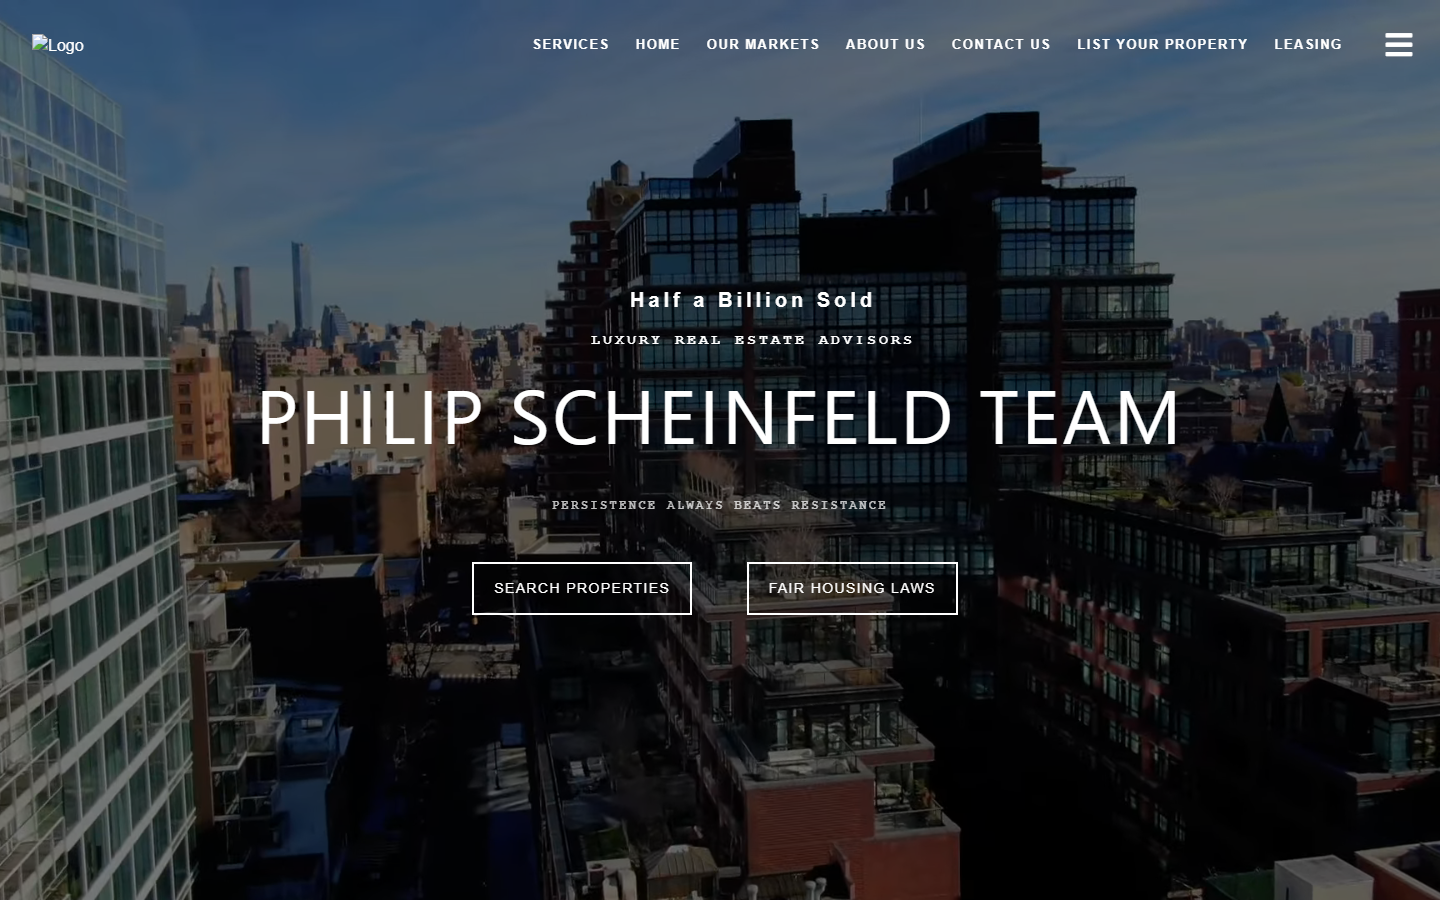
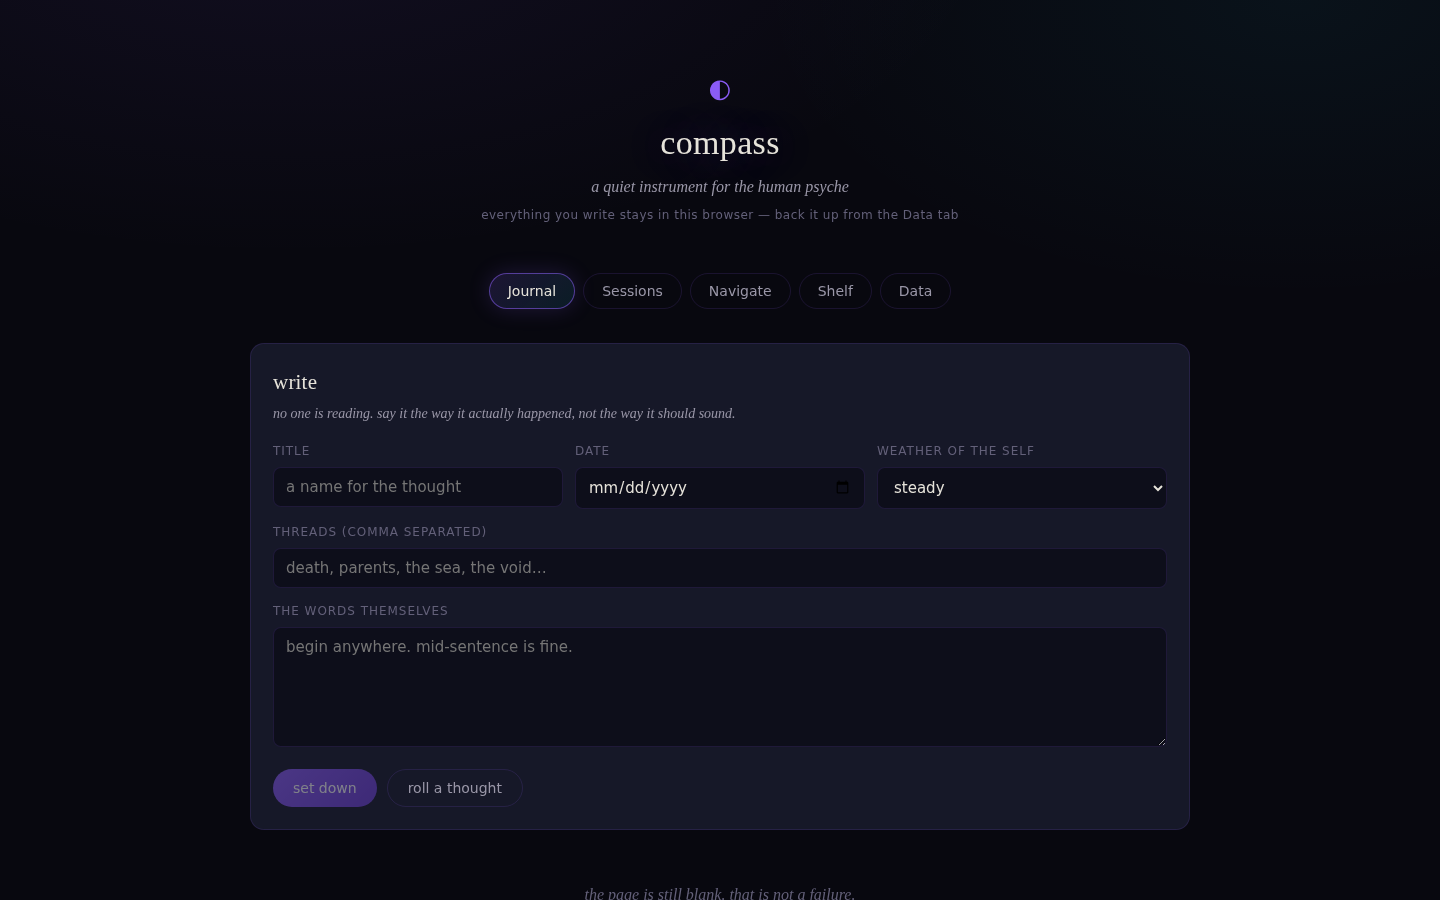
add services page + OG card, fix card titles, real screenshots
- /services pricing page + nav link
- OG share image (1200x630) + twitter/linkedin tags
- Project card titles use theme ink (were inherit-black on button)
- Replace wrong Compass screenshot with real Vite/React app capture
- NightAnvil screenshots (landing, dashboard, gig form), bb-suite dry-run
  output, and Obsidian dashboard capture
- Community pitch snippets (docs/pitching.md)

diff --git a/src/routes/services/+page.svelte b/src/routes/services/+page.svelte
@@ -1,0 +1,272 @@
+<script lang="ts">
+	import { profile } from '$lib/data/profile';
+
+	const packages = [
+		{
+			code: 'LAUNCH',
+			name: 'Launch',
+			price: '$1,200',
+			timing: '1–2 weeks',
+			best: 'Local businesses, clinics, photographers, startups needing a credible web presence.',
+			features: [
+				'Up to 5 custom pages, mobile-first, camera-ready',
+				'Booking / contact + email integration',
+				'SEO foundations: meta, OG/social share cards, sitemap',
+				'Analytics, security headers, favicon & branding',
+				'One design revision round, 30 days of post-launch fixes'
+			]
+		},
+		{
+			code: 'BUILD',
+			name: 'Build',
+			price: '$2,800',
+			timing: '3–5 weeks',
+			featured: true,
+			best: 'E-commerce, SaaS MVPs, client portals, dashboards — custom web products that make money.',
+			features: [
+				'Custom web app: Next.js / SvelteKit / React + TypeScript',
+				'Auth, admin panel, and payments (Stripe)',
+				'Database, deployment pipeline (CI/CD), custom domain',
+				'Booking, catalog, or service flows wired end-to-end',
+				'Two revision rounds, 60 days of post-launch support'
+			]
+		},
+		{
+			code: 'SCALE',
+			name: 'Scale',
+			price: '$5,000+',
+			timing: 'Ongoing / staggered',
+			best: 'Platforms, multi-tenant products, AI/automation systems, and businesses that need an engineering partner.',
+			features: [
+				'Multi-tenant / white-label platforms (sellable products)',
+				'AI agents, workflow automation, integration layers',
+				'Security review + hardening (offensive-security background)',
+				'Retainer: ongoing features, monitoring, infrastructure',
+				'Direct line to an engineer — no account-manager middlemen'
+			]
+		}
+	];
+
+	const addons = [
+		{ item: 'Web scraping / data pipelines', price: '$45/hr' },
+		{ item: 'Automation / scripting / Zapier-style glue', price: '$45/hr' },
+		{ item: 'Firewall & infrastructure hardening', price: '$350 / site' },
+		{ item: 'SEO / analytics / schema configuration', price: '$150' },
+		{ item: 'Redesign / rebrand (existing site)', price: 'Quote' }
+	];
+</script>
+
+<svelte:head>
+	<title>Services &amp; Pricing — pwn4g3</title>
+	<meta name="description" content="Web development, e-commerce, automation, and security engineering for St. Louis businesses — fixed-price packages from $1,200." />
+</svelte:head>
+
+<section class="services-hero">
+	<p class="eyebrow"><i aria-hidden="true"></i> Services &amp; Pricing</p>
+	<h1>What I <em>build</em></h1>
+	<p class="lede">
+		Fixed-price packages. No account managers, no mystery invoices — you work directly with the engineer
+		who ships the work. St. Louis, MO · remote-friendly.
+	</p>
+</section>
+
+<section class="section packages">
+	<div class="package-grid">
+		{#each packages as pkg}
+			<div class="pkg reveal" class:featured={pkg.featured}>
+				<span class="pkg-code">{pkg.code}</span>
+				<h2>{pkg.name}</h2>
+				<div class="pkg-price">
+					<strong>{pkg.price}</strong>
+					<span>{pkg.timing}</span>
+				</div>
+				{#if pkg.featured}<span class="pkg-badge">Most purchased</span>{/if}
+				<p class="pkg-best">{pkg.best}</p>
+				<ul>
+					{#each pkg.features as f}
+						<li>→ {f}</li>
+					{/each}
+				</ul>
+				<a class="button primary" class:ghost={pkg.featured} href="/#booking">
+					Book {pkg.name.toLowerCase()} <span>→</span>
+				</a>
+			</div>
+		{/each}
+	</div>
+</section>
+
+<section class="section addons">
+	<div class="section-heading">
+		<span class="section-kicker">ADD-ONS</span>
+		<h2>Ala carte <em>work</em></h2>
+	</div>
+	<div class="addon-list reveal">
+		{#each addons as a}
+			<div class="addon-row">
+				<span>{a.item}</span>
+				<div class="addon-rule" aria-hidden="true"></div>
+				<strong>{a.price}</strong>
+			</div>
+		{/each}
+	</div>
+</section>
+
+<section class="section process">
+	<div class="section-heading">
+		<span class="section-kicker">PROCESS</span>
+		<h2>How it <em>works</em></h2>
+	</div>
+	<div class="process-grid">
+		<div class="step reveal"><b>01</b><h3>Scope</h3><p>Free 20-minute call. I map what you need to this page's packages or quote custom work.</p></div>
+		<div class="step reveal"><b>02</b><h3>Contract</h3><p>50% deposit, fixed price, written timeline. What we agree on is what you pay — no creep.</p></div>
+		<div class="step reveal"><b>03</b><h3>Build</h3><p>You get a live preview link as I build. Checkpoint reviews, weekly progress, no black box.</p></div>
+		<div class="step reveal"><b>04</b><h3>Ship</h3><p>You approve, I deploy to your domain, hand over the code and credentials, and stay on for post-launch fixes.</p></div>
+	</div>
+</section>
+
+<section class="section faq">
+	<div class="section-heading">
+		<span class="section-kicker">FAQ</span>
+		<h2>Straight <em>answers</em></h2>
+	</div>
+	<div class="faq-list reveal">
+		<p><b>Do you need a local business?</b> No — I work remote, but local St. Louis clients get priority scheduling and optional in-person walkthroughs.</p>
+		<p><b>Who owns the code?</b> You do — fully transferred on final payment. You're never locked into me.</p>
+		<p><b>What stack do you use?</b> Next.js, SvelteKit, React, TypeScript, Node, Python, Postgres, Redis, Cloudflare/Vercel. Or whatever fits the project best.</p>
+		<p><b>Can you fix my existing site instead of rebuilding?</b> Usually yes — performance, SEO, security, and redesign are all ala carte items.</p>
+	</div>
+</section>
+
+<section class="cta">
+	<p class="eyebrow"><i aria-hidden="true"></i> Let's talk</p>
+	<h2>Have a project in <em>mind?</em></h2>
+	<p>Tell me what you're building — I'll reply within a day with an estimate.</p>
+	<a class="button primary" href="/#booking">Book a project <span>→</span></a>
+	<a class="button ghost" href="mailto:{profile.email}">or email directly <span>↗</span></a>
+</section>
+
+<style>
+	.services-hero {
+		padding: 9rem 5vw 4rem;
+		max-width: 1180px;
+		margin: 0 auto;
+	}
+	.services-hero h1 {
+		font-family: var(--font-heading, 'Cormorant Garamond'), serif;
+		font-size: clamp(3rem, 7vw, 5rem);
+		font-weight: 500;
+		line-height: 0.95;
+		margin: 1rem 0 1.5rem;
+	}
+	.services-hero em { color: var(--accent, #a51d37); font-style: italic; }
+	.services-hero .lede {
+		color: var(--muted, #898681);
+		font-size: 1.05rem;
+		line-height: 1.7;
+		max-width: 34em;
+	}
+
+	.package-grid {
+		display: grid;
+		grid-template-columns: repeat(auto-fit, minmax(280px, 1fr));
+		gap: 1.5rem;
+	}
+	.pkg {
+		background: var(--surface, #080a0d);
+		border: 1px solid rgba(236, 231, 224, 0.08);
+		border-radius: 12px;
+		padding: 2rem 1.75rem;
+		display: flex;
+		flex-direction: column;
+		gap: 1rem;
+		position: relative;
+		transition: border-color 0.2s, transform 0.2s;
+	}
+	.pkg:hover { border-color: rgba(165, 29, 55, 0.5); transform: translateY(-2px); }
+	.pkg.featured {
+		border-color: var(--accent, #a51d37);
+		background: linear-gradient(160deg, rgba(165, 29, 55, 0.08), var(--surface, #080a0d) 45%);
+	}
+	.pkg-code {
+		font: 0.7rem var(--font-mono, monospace);
+		color: var(--accent-bright, #e33d5c);
+		letter-spacing: 0.15em;
+	}
+	.pkg h2 {
+		font-family: var(--font-heading, 'Cormorant Garamond'), serif;
+		font-size: 2rem;
+		font-weight: 500;
+		margin: 0;
+	}
+	.pkg-price { display: flex; align-items: baseline; gap: 0.75rem; }
+	.pkg-price strong { font-size: 1.6rem; font-weight: 600; }
+	.pkg-price span { font: 0.7rem var(--font-mono, monospace); color: var(--muted, #898681); }
+	.pkg-badge {
+		position: absolute; top: 1rem; right: 1rem;
+		font: 0.6rem var(--font-mono, monospace);
+		letter-spacing: 0.1em;
+		color: var(--ink, #ece7e0);
+		background: var(--accent, #a51d37);
+		padding: 0.3rem 0.6rem;
+		border-radius: 999px;
+	}
+	.pkg-best { color: var(--muted, #898681); font-size: 0.85rem; line-height: 1.6; }
+	.pkg ul { list-style: none; margin: 0; padding: 0; display: flex; flex-direction: column; gap: 0.55rem; }
+	.pkg li { color: var(--ink, #ece7e0); font-size: 0.85rem; line-height: 1.5; }
+	.pkg .button { margin-top: auto; text-align: center; }
+
+	.addon-list {
+		border: 1px solid rgba(236, 231, 224, 0.08);
+		border-radius: 12px;
+		background: var(--surface, #080a0d);
+		padding: 0.5rem 1.75rem;
+	}
+	.addon-row {
+		display: flex;
+		align-items: baseline;
+		gap: 1rem;
+		padding: 0.9rem 0;
+	}
+	.addon-row span { color: var(--ink, #ece7e0); font-size: 0.95rem; }
+	.addon-row strong { font-family: var(--font-mono, monospace); font-size: 0.85rem; color: var(--accent-bright, #e33d5c); white-space: nowrap; }
+	.addon-rule { flex: 1; border-bottom: 1px dotted rgba(236, 231, 224, 0.15); }
+
+	.process-grid {
+		display: grid;
+		grid-template-columns: repeat(auto-fit, minmax(220px, 1fr));
+		gap: 1.5rem;
+	}
+	.step {
+		background: var(--surface, #080a0d);
+		border: 1px solid rgba(236, 231, 224, 0.08);
+		border-radius: 12px;
+		padding: 1.75rem;
+	}
+	.step b { font: 0.75rem var(--font-mono, monospace); color: var(--accent, #a51d37); }
+	.step h3 { font-family: var(--font-heading, 'Cormorant Garamond'), serif; font-size: 1.4rem; font-weight: 500; margin: 0.5rem 0; }
+	.step p { color: var(--muted, #898681); font-size: 0.85rem; line-height: 1.6; margin: 0; }
+
+	.faq-list { display: flex; flex-direction: column; gap: 1rem; max-width: 820px; }
+	.faq-list p {
+		background: var(--surface, #080a0d);
+		border: 1px solid rgba(236, 231, 224, 0.08);
+		border-radius: 12px;
+		padding: 1.25rem 1.5rem;
+		color: var(--muted, #898681);
+		font-size: 0.9rem;
+		line-height: 1.7;
+		margin: 0;
+	}
+	.faq-list b { color: var(--ink, #ece7e0); }
+
+	.cta { text-align: center; padding: 4rem 5vw 6rem; }
+	.cta h2 {
+		font-family: var(--font-heading, 'Cormorant Garamond'), serif;
+		font-size: clamp(2.5rem, 5vw, 3.5rem);
+		font-weight: 500;
+		margin: 0.75rem 0 1rem;
+	}
+	.cta em { color: var(--accent, #a51d37); font-style: italic; }
+	.cta p { color: var(--muted, #898681); }
+	.cta .button { display: inline-block; margin: 0.5rem 0.35rem; }
+</style>

diff --git a/src/lib/data/projects.ts b/src/lib/data/projects.ts
@@ -107,7 +107,7 @@ export const projects: Project[] = [
 		stack: ['Python', 'Flask', 'Stripe', 'PostgreSQL'],
 		url: 'https://github.com/3m0h4ck3r/nightanvil',
 		repo: 'https://github.com/3m0h4ck3r/nightanvil',
-		images: [],
+		images: ['/shots/nightanvil-landing.png', '/shots/nightanvil-dashboard.png', '/shots/nightanvil-gig.png'],
 		detail: [
 			'Complete Python/Flask toolkit for freelancers: AI-powered gig generation, PDF invoices with payment tracking, Stripe checkout + webhooks.',
 			'Fiverr one-click gig sync, auth with secure sessions, dark neon brand UI, GitHub Actions CI/CD.',
@@ -122,7 +122,7 @@ export const projects: Project[] = [
 		stack: ['Go', 'ASM', 'Recon'],
 		url: 'https://github.com/3m0h4ck3r/obsidian-platform',
 		repo: 'https://github.com/3m0h4ck3r/obsidian-platform',
-		images: [],
+		images: ['/shots/obsidian.png'],
 		detail: [
 			'Production-grade Go attack surface management platform for bug bounty programs.',
 			'Hive-mind tier intelligence gathering: automated recon, scope monitoring, and target profiling.'
@@ -135,7 +135,7 @@ export const projects: Project[] = [
 		tagline: 'Automated bug bounty reconnaissance',
 		stack: ['Python', 'CLI'],
 		repo: 'https://github.com/geekhaus314',
-		images: [],
+		images: ['/shots/bb-suite-run.png'],
 		detail: [
 			'Modular Python toolkit for bug bounty recon with config, data pipelines, and scoped files.',
 			'Supports multiple reconnaissance modules with structured output for analysis.'

diff --git a/src/app.html b/src/app.html
@@ -14,6 +14,14 @@
 		<meta property="og:title" content="pwn4g3 — Software + Security Engineering" />
 		<meta property="og:description" content="Software, automation, AI systems, infrastructure, and security engineering." />
 		<meta property="og:url" content="https://pwn4g3.pages.dev" />
+		<meta property="og:image" content="https://pwn4g3.pages.dev/og.png" />
+		<meta property="og:image:width" content="1200" />
+		<meta property="og:image:height" content="630" />
+		<meta property="og:image:type" content="image/png" />
+		<meta name="twitter:card" content="summary_large_image" />
+		<meta name="twitter:title" content="pwn4g3 — Software + Security Engineering" />
+		<meta name="twitter:description" content="Software, automation, AI systems, infrastructure, and security engineering." />
+		<meta name="twitter:image" content="https://pwn4g3.pages.dev/og.png" />
 
 		<!-- Fonts -->
 		<link rel="preconnect" href="https://fonts.googleapis.com" />

diff --git a/src/app.css b/src/app.css
@@ -504,7 +504,7 @@ h1 em, h2 em, blockquote em { color: var(--accent); }
 	justify-content: space-between;
 	padding: 1.1rem 1.15rem 1.25rem;
 }
-.project-info h3 { margin: 0.35rem 0 0.2rem; font-size: 1.45rem; line-height: 0.95; }
+.project-info h3 { margin: 0.35rem 0 0.2rem; font-size: 1.45rem; line-height: 0.95; color: var(--ink, #ece7e0); }
 .project-info p { margin: 0; color: #706d68; font-size: 0.75rem; line-height: 1.4; }
 .arrow { color: #5c5954; font-size: 1.4rem; }
 

diff --git a/src/routes/+layout.svelte b/src/routes/+layout.svelte
@@ -77,6 +77,7 @@
 		<nav aria-label="Main navigation">
 			<a href="/#about"     class:current={activeSection === 'about'}>About</a>
 			<a href="/#portfolio" class:current={activeSection === 'portfolio'}>Portfolio</a>
+			<a href="/services"   class:current={$page.url.pathname === '/services'}>Services</a>
 			<a href="/#career"    class:current={activeSection === 'career'}>Career</a>
 			<a href="/#booking"   class:current={activeSection === 'booking'}>Book</a>
 		</nav>

diff --git a/docs/pitching.md b/docs/pitching.md
@@ -1,0 +1,58 @@
+# Pitching snippets for pwn4g3
+
+Copy-paste intros for where buyers actually show up. Swap the `[...]` placeholders per niche.
+
+## Upwork / Fiverr profile intro
+
+> Full-stack developer (Next.js, React, SvelteKit, TypeScript, Python) and security-focused engineer.
+> I build e-commerce sites, web apps, automation, and data pipelines — with real deployments, not
+> mockups. I've shipped production storefronts, client sites running on custom domains, AI/automation
+> systems, and bug-bounty tooling. Fixed-scope quotes, live preview links while I work, and the code
+> is yours when it's done. Portfolio: pwn4g3.pages.dev. Based in St. Louis, MO; remote-friendly.
+
+## r/forhire
+
+> **[Hiring] Full-stack web dev + security engineering — Next.js, React, SvelteKit, Python**
+>
+> I build production web apps, e-commerce stores, and automations. Recent work includes a multi-tenant
+> wholesale storefront, a clinic site live on a custom domain, and bug-bounty tooling. You work
+> directly with me (no middlemen), get a live preview while I build, fixed quotes, and full code
+> handover. Case studies + screenshots: https://pwn4g3.pages.dev — DM or geekhaus314@proton.me.
+
+## LinkedIn headline
+
+> Full-Stack Developer & Security Engineering Student | Next.js · React · TypeScript · Python | pwn4g3.pages.dev
+
+## LinkedIn About (short)
+
+> I build web applications, e-commerce platforms, and automation for businesses that want to ship
+> and scale — people don't like noise. St. Louis, MO · remote. Portfolio: pwn4g3.pages.dev.
+> Currently finishing a B.S. in Computer Science / Cybersecurity Engineering (3.9 GPA, Dean's List);
+> open to part-time IT, web development, and security roles.
+
+## Local cold email (St. Louis small business)
+
+> Subject: [Business] — a faster site, built in 2 weeks
+>
+> Hi [Name],
+>
+> I'm a St. Louis web developer (geekhaus314). I noticed [Business]'s site could be working harder —
+> faster load, mobile-first, and a clear way for customers to contact or book. Recent local builds:
+> myhairloss.com and angie-viefhaus.pages.dev (both live).
+>
+> Sites start at $1,200, fixed price, with a live preview as I build. Worth a 20-minute call? I'll
+> reply to anything.
+> — Jake, pwn4g3 · pwn4g3.pages.dev
+
+## E-commerce platform sales pitch (rebrandable wholesale platform)
+
+> Subject: Your wholesale store on a platform built for distribution businesses
+>
+> Hi [Name],
+>
+> I built a multi-tenant wholesale e-commerce platform (catalog, brands, checkout, wholesale pricing,
+> admin, employee dashboards, age verification) and I'm selling it rebranded for a new distribution
+> business — ready to deploy on your domain. One codebase, your brand, your suppliers.
+>
+> Live demo: kanan-e.vercel.app · Stack: Next.js, TypeScript, Vercel. Ask me for the feature list.
+> — Jake · geekhaus314@proton.me
